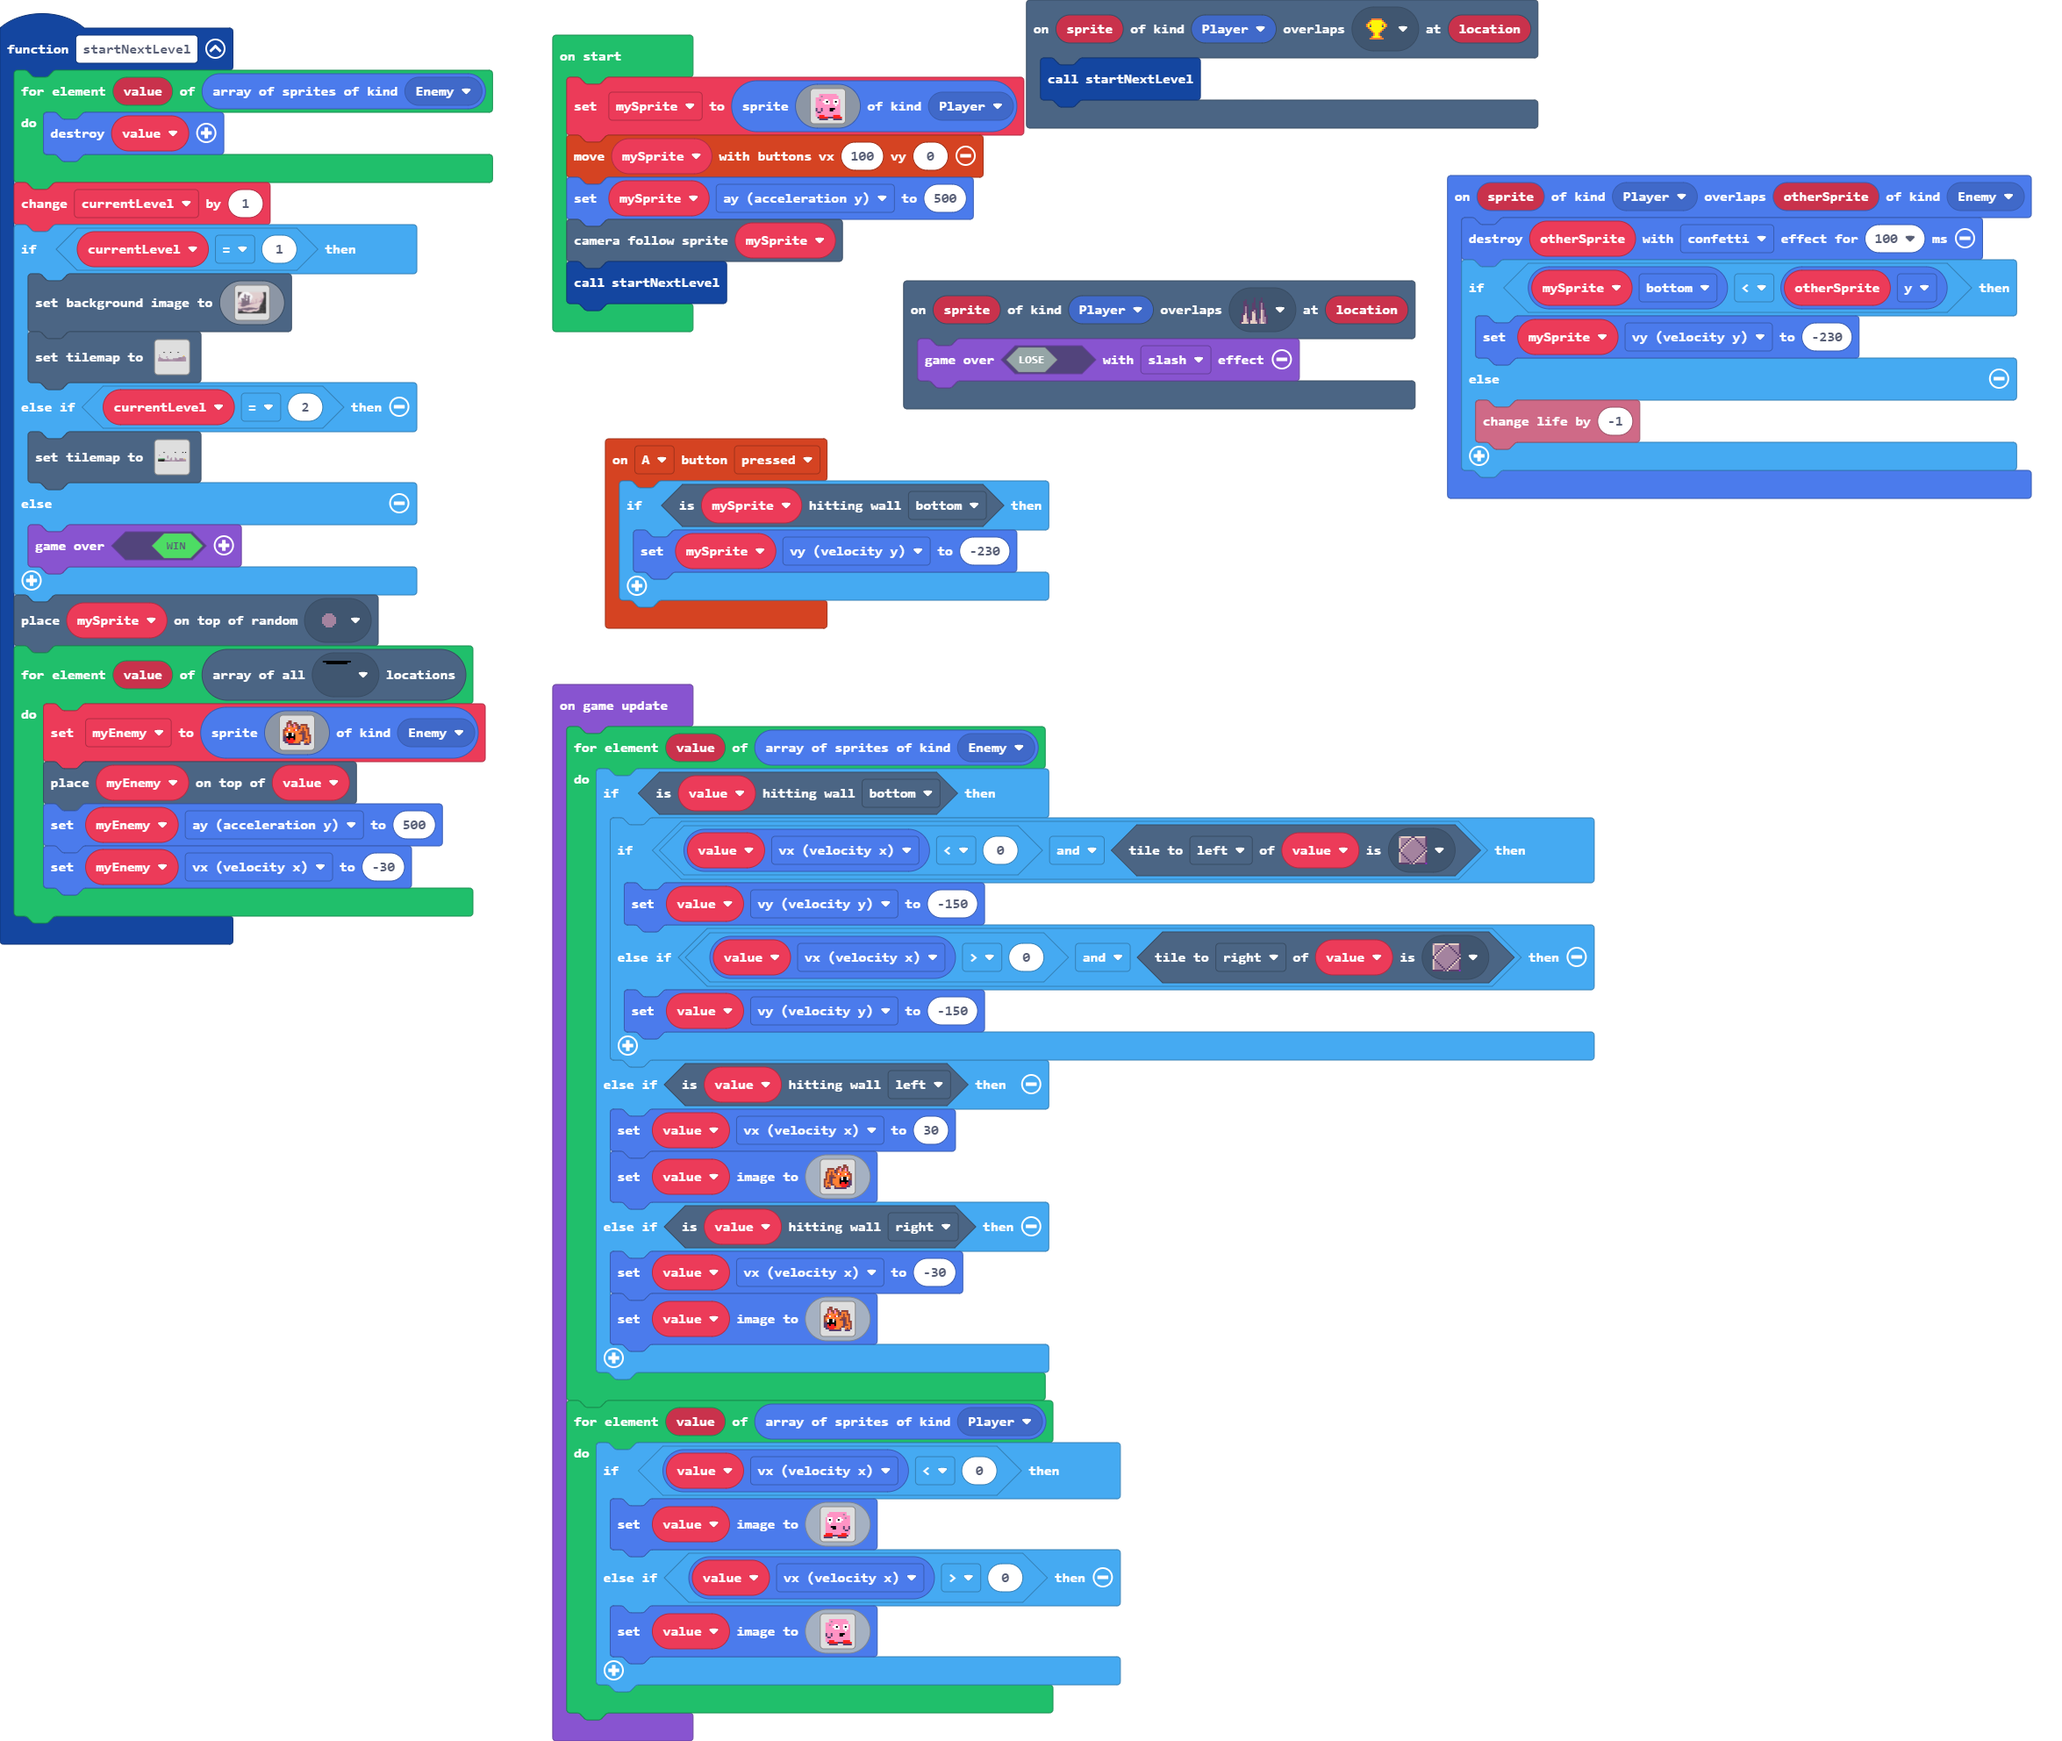
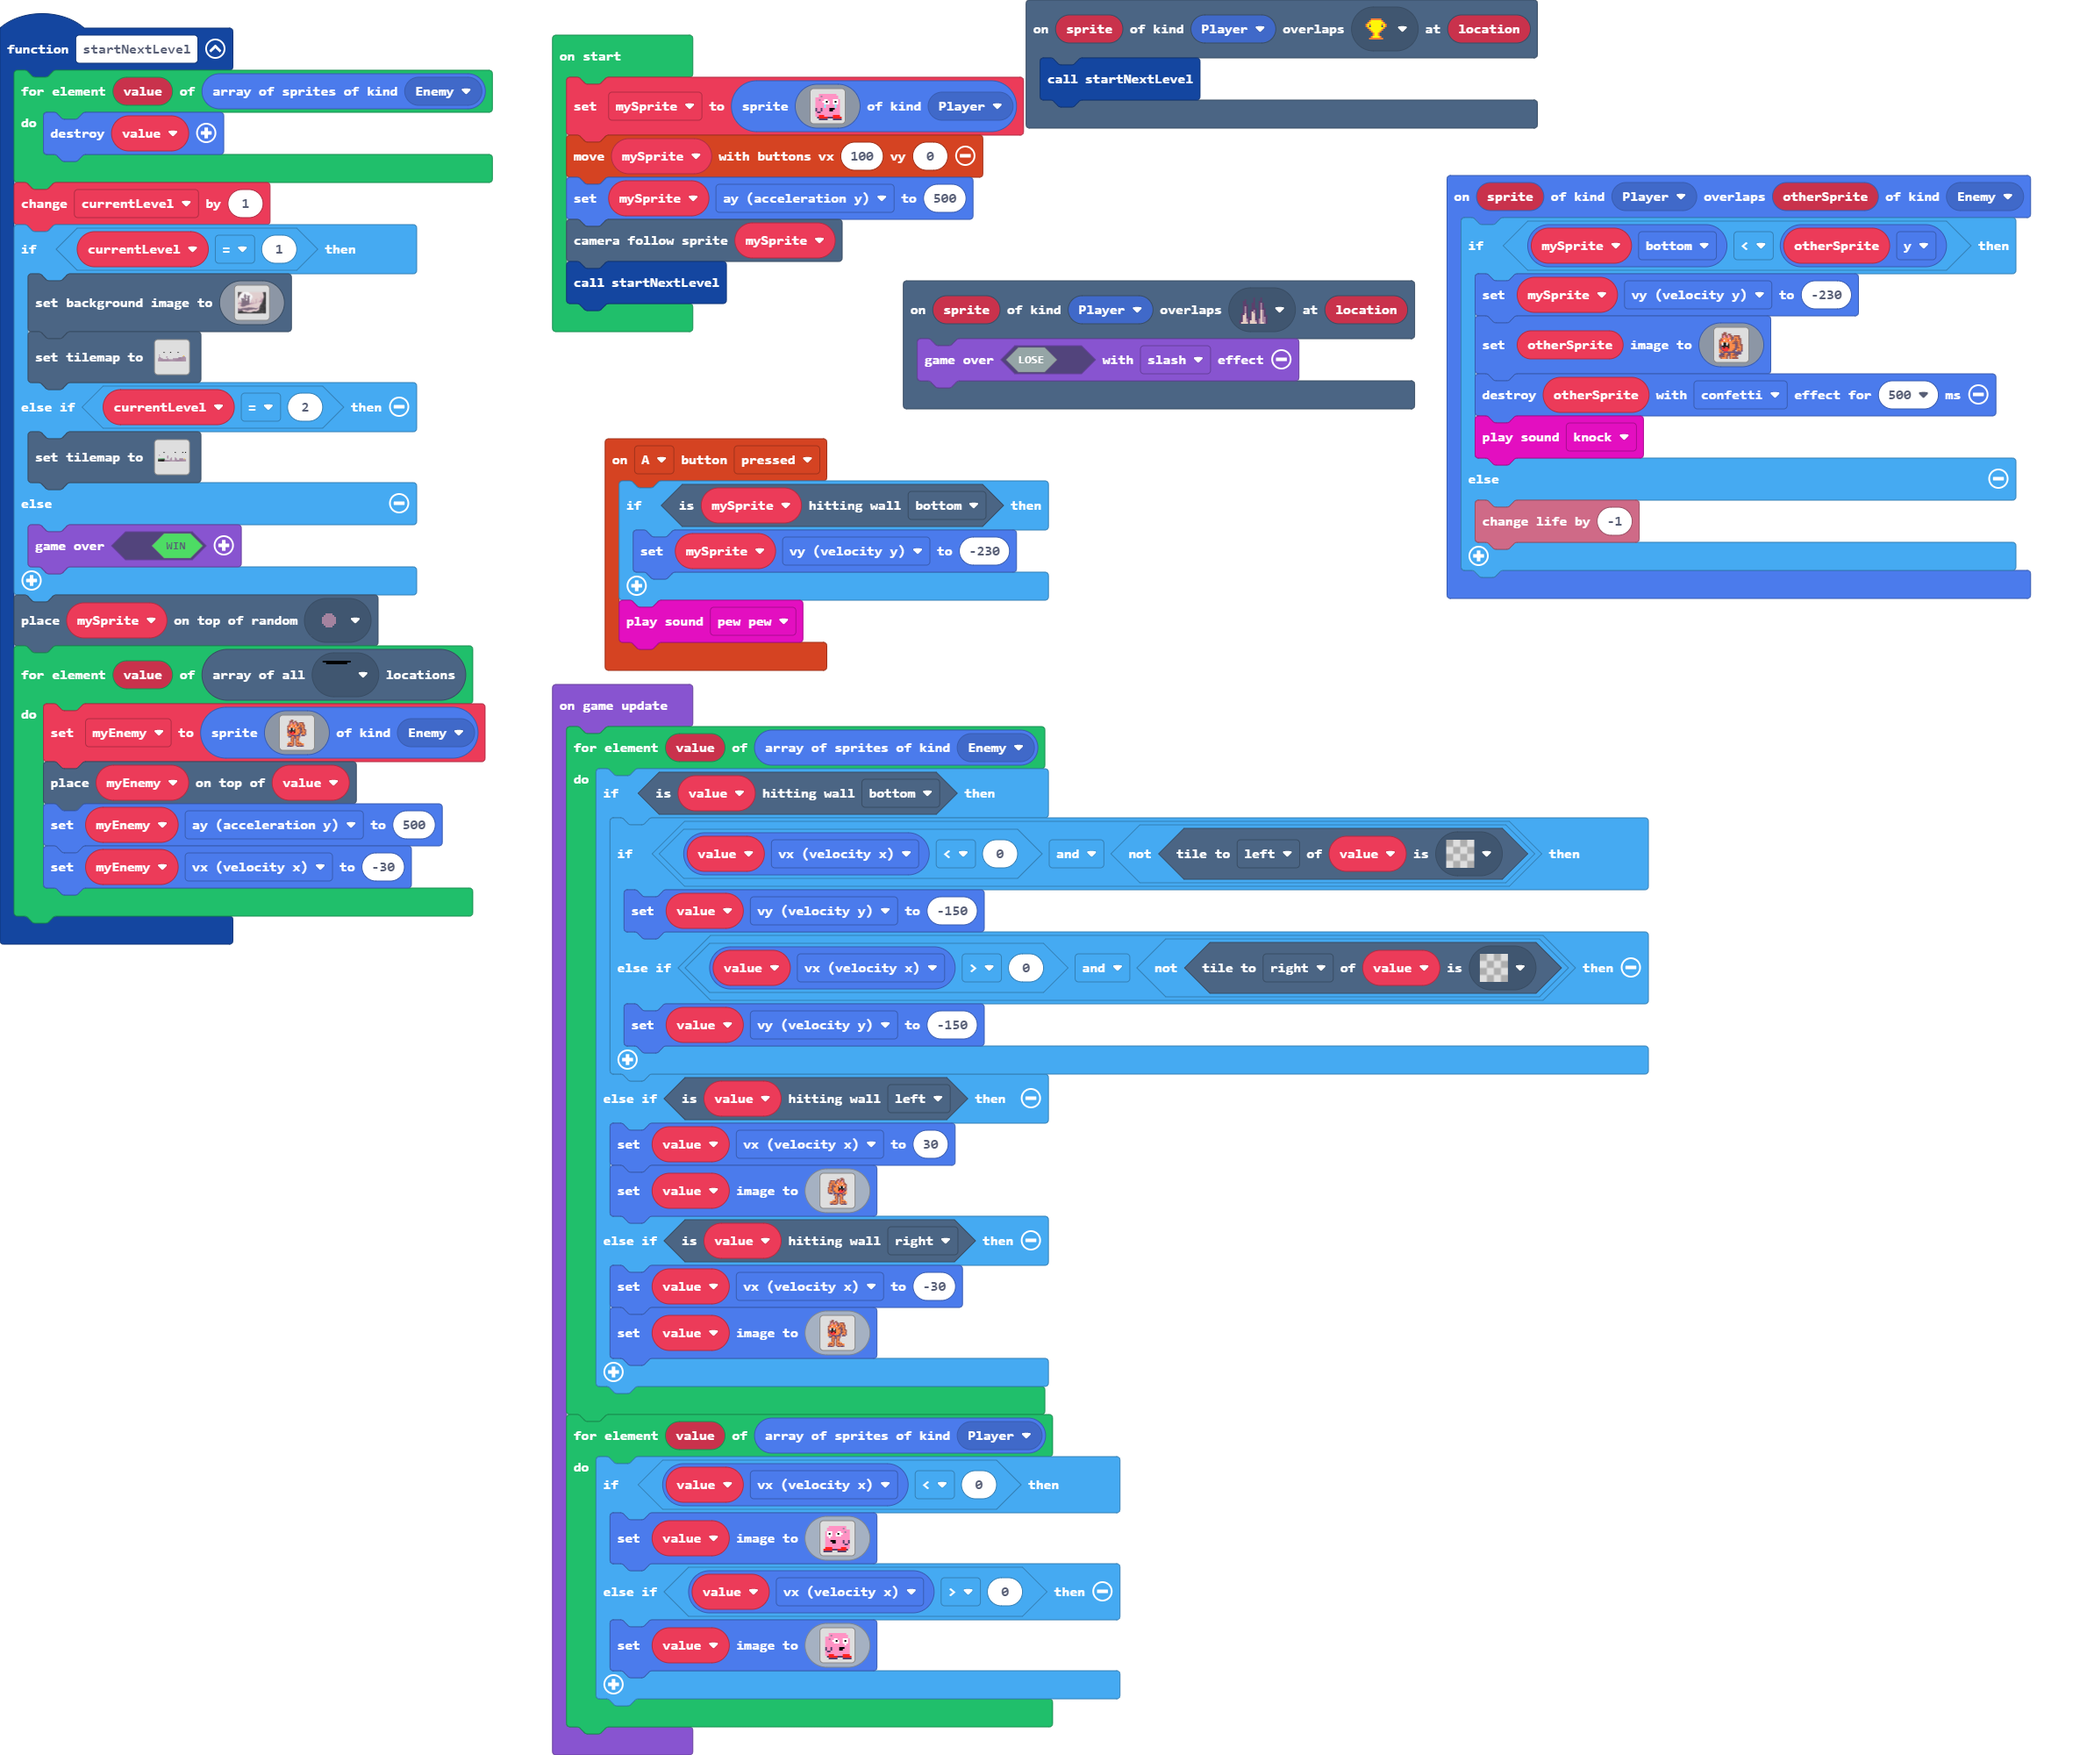
Fixing problems with Tutorial

Changed region(s): [[0.0, 0.0, 0.994, 1.0], [0.497, 0.9688, 0.5281, 1.0]]

diff --git a/main.ts b/main.ts
@@ -5,6 +5,7 @@ controller.A.onEvent(ControllerButtonEvent.Pressed, function () {
     if (mySprite.isHittingTile(CollisionDirection.Bottom)) {
         mySprite.vy = -230
     }
+    music.pewPew.play()
 })
 function startNextLevel () {
     for (let value of sprites.allOfKind(SpriteKind.Enemy)) {
@@ -143,22 +144,30 @@ function startNextLevel () {
     tiles.placeOnRandomTile(mySprite, assets.tile`tile3`)
     for (let value of tiles.getTilesByType(assets.tile`myTile`)) {
         myEnemy = sprites.create(img`
-            . . . . . . . . . . . . . . . . 
-            . . . e e . . . . . . . . . . . 
-            . . e e e . e e . . . . . . . . 
-            . . e 3 e e 3 e e . e e e e . . 
-            . . e 3 4 e 3 4 e c 4 4 4 e . . 
-            . e 4 4 4 4 4 4 e c 4 e 4 e e . 
-            e e 2 1 4 4 2 1 e 4 4 e 4 4 e . 
-            e 4 4 4 4 4 4 4 4 4 e e e 4 e . 
-            e 4 1 f f 1 e 4 4 e e c e 4 e . 
-            e e 1 f f 1 f 4 4 4 4 c e 4 e e 
-            c c f f f f f 4 4 4 4 c e 4 4 e 
-            c c 2 f 2 2 f 4 4 4 4 c e e 4 e 
-            c c 2 2 2 2 2 4 4 4 e c 4 4 4 e 
-            . c c 2 2 2 4 4 4 e . . 4 e 4 c 
-            . . . c c c c c c c . . c c c . 
-            . . . . . . . . . . . . . . . . 
+            ................
+            ...ee...........
+            ..eee.ee........
+            ..e3ee3ee.eeee..
+            ..e34e34ec444e..
+            .e444444ec4e4ee.
+            ee214421e44e44e.
+            e444444444eee4e.
+            e41ff1e44eece4e.
+            ee1ff1f4444ce4ee
+            ecfffff4444ce44e
+            ec2f22f4444cee4e
+            4c22222444ec444e
+            44c222444ec.4e4c
+            4e4cccccccc.ccc.
+            .cce44cc44e.....
+            ...e4eec4e......
+            ...e4e.e4e......
+            ...e4e.e4e......
+            ...e4e.e44......
+            .4444e.e4e44....
+            4eee4e.e4eee44..
+            4e444e.e4444e4..
+            cccce...ceeccc..
             `, SpriteKind.Enemy)
         tiles.placeOnTile(myEnemy, value)
         myEnemy.ay = 500
@@ -169,9 +178,31 @@ scene.onOverlapTile(SpriteKind.Player, assets.tile`tile2`, function (sprite, loc
     game.over(false, effects.slash)
 })
 sprites.onOverlap(SpriteKind.Player, SpriteKind.Enemy, function (sprite, otherSprite) {
-    otherSprite.destroy(effects.confetti, 100)
     if (mySprite.bottom < otherSprite.y) {
         mySprite.vy = -230
+        otherSprite.setImage(img`
+            ................
+            ...ee...........
+            ..eee.ee........
+            ..e3ee3ee.eeee..
+            ..e34e34ec444e..
+            .e444444ec4e4ee.
+            ee214421e44e44e.
+            e444444444eee4e.
+            e41ff1e44eece4e.
+            ee1ff1f4444ce4ee
+            ecfffff4444ce44e
+            ec2f22f4444cee4e
+            4c22222444ec444e
+            44c222444ec.4e4c
+            4e4cccccccccccc.
+            .cce44cc44ecccc.
+            ccce4eec4eeee...
+            eeee4e.e444e....
+            .e444e.e4eeee...
+            `)
+        otherSprite.destroy(effects.confetti, 500)
+        music.knock.play()
     } else {
         info.changeLifeBy(-1)
     }
@@ -187,8 +218,8 @@ mySprite = sprites.create(img`
     . 3 3 b 3 3 1 1 3 3 3 1 1 1 3 . 
     . 3 3 3 3 1 1 f 1 3 3 1 f 1 3 . 
     . 3 3 3 3 3 1 1 1 3 3 1 1 1 3 . 
-    . 3 3 3 3 3 3 3 3 3 3 3 1 3 3 . 
-    . 3 3 3 3 3 3 3 3 3 3 3 3 3 3 . 
+    . 3 3 3 3 3 9 3 3 3 3 3 9 3 3 . 
+    . 3 3 3 3 3 9 3 3 3 3 3 9 3 3 . 
     . c 3 3 c 3 3 3 3 f f f 3 3 3 . 
     . c 3 3 c 3 3 3 3 f f 3 3 3 3 . 
     . 3 c c 3 3 3 3 3 3 3 3 3 3 3 . 
@@ -204,50 +235,66 @@ startNextLevel()
 game.onUpdate(function () {
     for (let value of sprites.allOfKind(SpriteKind.Enemy)) {
         if (value.isHittingTile(CollisionDirection.Bottom)) {
-            if (value.vx < 0 && value.tileKindAt(TileDirection.Left, assets.tile`tile1`)) {
+            if (value.vx < 0 && !(value.tileKindAt(TileDirection.Left, assets.tile`transparency16`))) {
                 value.vy = -150
-            } else if (value.vx > 0 && value.tileKindAt(TileDirection.Right, assets.tile`tile1`)) {
+            } else if (value.vx > 0 && !(value.tileKindAt(TileDirection.Right, assets.tile`transparency16`))) {
                 value.vy = -150
             }
         } else if (value.isHittingTile(CollisionDirection.Left)) {
             value.vx = 30
             value.setImage(img`
-                . . . . . . . . . . . . . . . . 
-                . . . . . . . . . . . e e . . . 
-                . . . . . . . . e e . e e e . . 
-                . . e e e e . e e 3 e e 3 e . . 
-                . . e 4 4 4 c e 4 3 e 4 3 e . . 
-                . e e 4 e 4 c e 4 4 4 4 4 4 e . 
-                . e 4 4 e 4 4 e 1 2 4 4 1 2 e e 
-                . e 4 e e e 4 4 4 4 4 4 4 4 4 e 
-                . e 4 e c e e 4 4 e 1 f f 1 4 e 
-                e e 4 e c 4 4 4 4 f 1 f f 1 e e 
-                e 4 4 e c 4 4 4 4 f f f f f c c 
-                e 4 e e c 4 4 4 4 f 2 2 f 2 c c 
-                e 4 4 4 c e 4 4 4 2 2 2 2 2 c c 
-                c 4 e 4 . . e 4 4 4 2 2 2 c c . 
-                . c c c . . c c c c c c c . . . 
-                . . . . . . . . . . . . . . . . 
+                ................
+                ...........ee...
+                ........ee.eee..
+                ..eeee.ee3ee3e..
+                ..e444ce43e43e..
+                .ee4e4ce444444e.
+                .e44e44e124412ee
+                .e4eee444444444e
+                .e4ecee44e1ff14e
+                ee4ec4444f1ff1ee
+                e44ec4444fffffce
+                e4eec4444f22f2ce
+                e444ce44422222c4
+                c4e4.ce444222c44
+                .ccc.cccccccc4e4
+                .....e44cc44ecc.
+                ......e4cee4e...
+                ......e4e.e4e...
+                ......e4e.e4e...
+                ......44e.e4e...
+                ....44e4e.e4444.
+                ..44eee4e.e4eee4
+                ..4e4444e.e444e4
+                ..ccceec...ecccc
                 `)
         } else if (value.isHittingTile(CollisionDirection.Right)) {
             value.vx = -30
             value.setImage(img`
-                . . . . . . . . . . . . . . . . 
-                . . . e e . . . . . . . . . . . 
-                . . e e e . e e . . . . . . . . 
-                . . e 3 e e 3 e e . e e e e . . 
-                . . e 3 4 e 3 4 e c 4 4 4 e . . 
-                . e 4 4 4 4 4 4 e c 4 e 4 e e . 
-                e e 2 1 4 4 2 1 e 4 4 e 4 4 e . 
-                e 4 4 4 4 4 4 4 4 4 e e e 4 e . 
-                e 4 1 f f 1 e 4 4 e e c e 4 e . 
-                e e 1 f f 1 f 4 4 4 4 c e 4 e e 
-                c c f f f f f 4 4 4 4 c e 4 4 e 
-                c c 2 f 2 2 f 4 4 4 4 c e e 4 e 
-                c c 2 2 2 2 2 4 4 4 e c 4 4 4 e 
-                . c c 2 2 2 4 4 4 e . . 4 e 4 c 
-                . . . c c c c c c c . . c c c . 
-                . . . . . . . . . . . . . . . . 
+                ................
+                ...ee...........
+                ..eee.ee........
+                ..e3ee3ee.eeee..
+                ..e34e34ec444e..
+                .e444444ec4e4ee.
+                ee214421e44e44e.
+                e444444444eee4e.
+                e41ff1e44eece4e.
+                ee1ff1f4444ce4ee
+                ecfffff4444ce44e
+                ec2f22f4444cee4e
+                4c22222444ec444e
+                44c222444ec.4e4c
+                4e4cccccccc.ccc.
+                .cce44cc44e.....
+                ...e4eec4e......
+                ...e4e.e4e......
+                ...e4e.e4e......
+                ...e4e.e44......
+                .4444e.e4e44....
+                4eee4e.e4eee44..
+                4e444e.e4444e4..
+                cccce...ceeccc..
                 `)
         }
     }

diff --git a/tilemap.g.ts b/tilemap.g.ts
@@ -254,6 +254,44 @@ namespace myTiles {
 . . . . . . . . . . . . . . . . 
 . . . . . . . . . . . . . . . . 
 `, [myTiles.transparency16], TileScale.Sixteen);
+            case "level10":
+            case "level10":return tiles.createTilemap(hex`1000100000000000000000000000000000000000000000000000000000000000000000000000000000000000000000000000000000000000000000000000000000000000000000000000000000000000000000000000000000000000000000000000000000000000000000000000000000000000000000000000000000000000000000000000000000000000000000000000000000000000000000000000000000000000000000000000000000000000000000000000000000000000000000000000000000000000000000000000000000000000000000000000000000000000000000000000000000000000000000000000000000000000000000000000000000000000`, img`
+. . . . . . . . . . . . . . . . 
+. . . . . . . . . . . . . . . . 
+. . . . . . . . . . . . . . . . 
+. . . . . . . . . . . . . . . . 
+. . . . . . . . . . . . . . . . 
+. . . . . . . . . . . . . . . . 
+. . . . . . . . . . . . . . . . 
+. . . . . . . . . . . . . . . . 
+. . . . . . . . . . . . . . . . 
+. . . . . . . . . . . . . . . . 
+. . . . . . . . . . . . . . . . 
+. . . . . . . . . . . . . . . . 
+. . . . . . . . . . . . . . . . 
+. . . . . . . . . . . . . . . . 
+. . . . . . . . . . . . . . . . 
+. . . . . . . . . . . . . . . . 
+`, [myTiles.transparency16], TileScale.Sixteen);
+            case "level11":
+            case "level11":return tiles.createTilemap(hex`1000100000000000000000000000000000000000000000000000000000000000000000000000000000000000000000000000000000000000000000000000000000000000000000000000000000000000000000000000000000000000000000000000000000000000000000000000000000000000000000000000000000000000000000000000000000000000000000000000000000000000000000000000000000000000000000000000000000000000000000000000000000000000000000000000000000000000000000000000000000000000000000000000000000000000000000000000000000000000000000000000000000000000000000000000000000000000`, img`
+. . . . . . . . . . . . . . . . 
+. . . . . . . . . . . . . . . . 
+. . . . . . . . . . . . . . . . 
+. . . . . . . . . . . . . . . . 
+. . . . . . . . . . . . . . . . 
+. . . . . . . . . . . . . . . . 
+. . . . . . . . . . . . . . . . 
+. . . . . . . . . . . . . . . . 
+. . . . . . . . . . . . . . . . 
+. . . . . . . . . . . . . . . . 
+. . . . . . . . . . . . . . . . 
+. . . . . . . . . . . . . . . . 
+. . . . . . . . . . . . . . . . 
+. . . . . . . . . . . . . . . . 
+. . . . . . . . . . . . . . . . 
+. . . . . . . . . . . . . . . . 
+`, [myTiles.transparency16], TileScale.Sixteen);
         }
         return null;
     })
